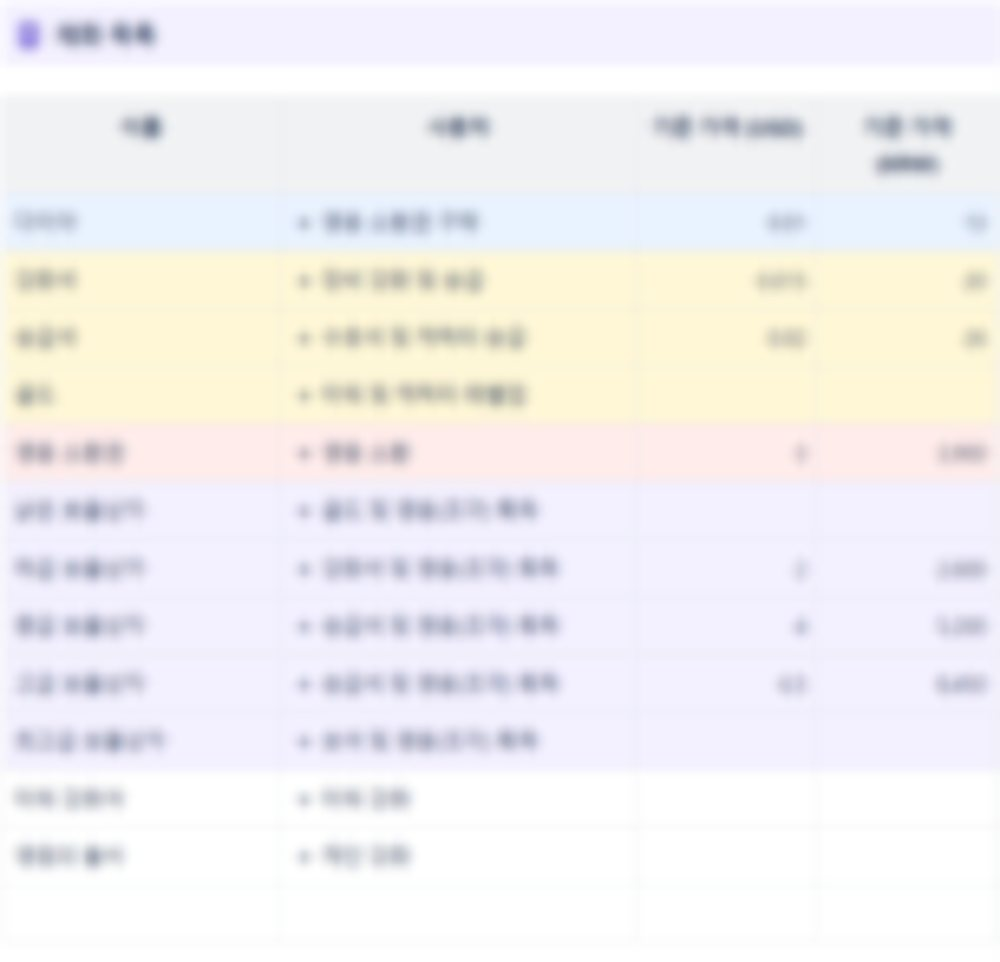
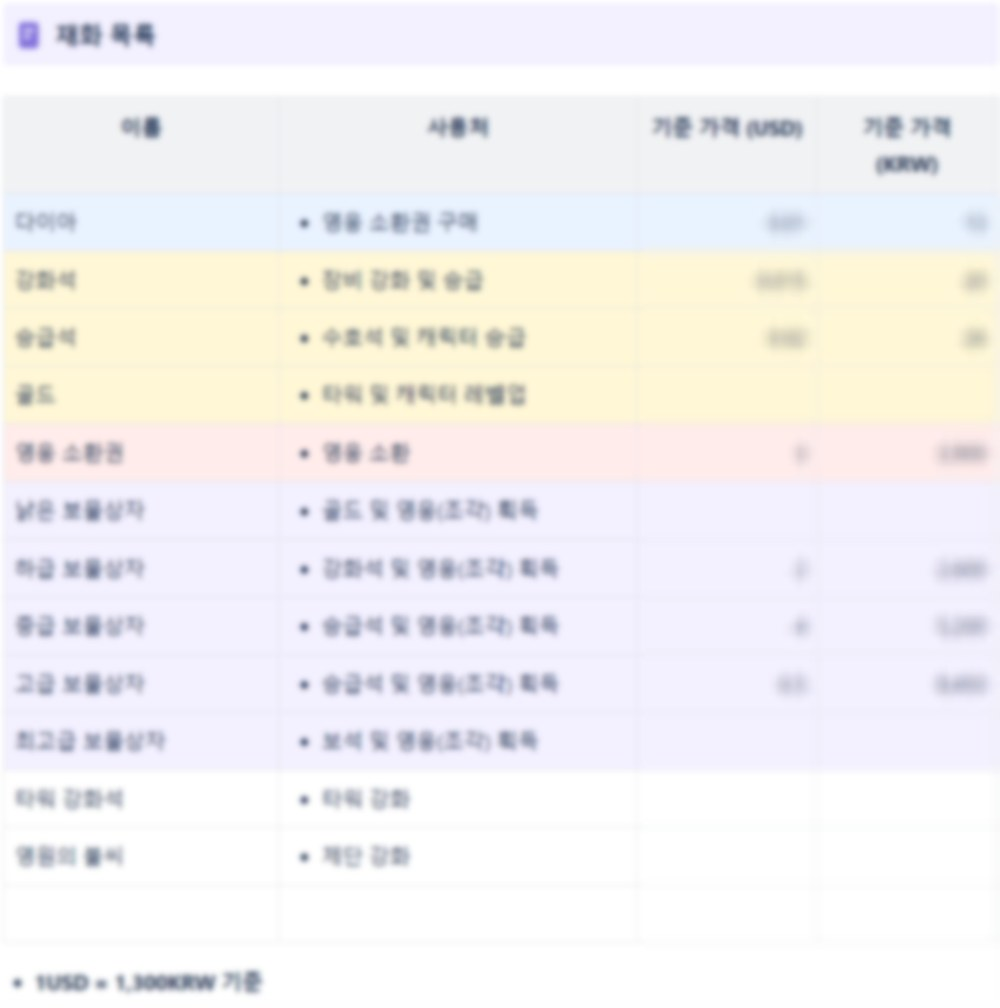
Blur only price columns in currency tables

diff --git a/projects.html b/projects.html
@@ -137,14 +137,14 @@
             콘텐츠에서 재화가 나오고 육성으로 흘러가는 전체 순환을 하나의 구조도로 정리한 뒤,
             모든 재화에 기준 가치를 부여해 시스템 간 보상량을 같은 잣대로 비교할 수 있게 했습니다.
           </p>
-          <div class="shots shots--wide">
+          <div class="shots shots--stack">
             <figure class="shot">
               <img src="assets/img/work/tds-loop-diagram.jpg" alt="Tailed Demon Slayer:RISE 콘텐츠-재화-육성 코어루프 구조도" loading="lazy">
               <figcaption>코어루프 구조도 — 콘텐츠에서 육성까지의 재화 흐름</figcaption>
             </figure>
             <figure class="shot">
-              <img src="assets/img/work/tds-loop-detail.jpg" alt="재화별 기준 가치 정의표 (수치 블러 처리)" loading="lazy">
-              <figcaption>재화별 기준 가치 정의 — 전 재화에 동일 기준의 환산 가치 부여 <span class="blurred">수치 블러</span></figcaption>
+              <img src="assets/img/work/tds-loop-detail.jpg" alt="재화별 기준 가치 정의표 (가격 수치만 블러 처리)" loading="lazy">
+              <figcaption>재화별 기준 가치 정의 — 전 재화에 동일 기준의 환산 가치 부여 <span class="blurred">가격 수치만 블러</span></figcaption>
             </figure>
           </div>
         </div>
@@ -398,14 +398,14 @@
             상자 포인트를 중심으로 재화가 분기되어 캐릭터·수호탑·장비·건설 타워로 흘러가는 순환을 설계하고,
             각 재화에 기준 가격을 부여해 콘텐츠별 보상 설계의 기준선을 만들었습니다.
           </p>
-          <div class="shots shots--wide">
+          <div class="shots shots--stack">
             <figure class="shot">
               <img src="assets/img/work/bers-loop-diagram.jpg" alt="광전사 키우기 캐릭터 육성 재화 코어루프 구조도" loading="lazy">
               <figcaption>코어루프 구조도 — 콘텐츠에서 육성으로 이어지는 재화 흐름</figcaption>
             </figure>
             <figure class="shot">
-              <img src="assets/img/work/bers-loop-detail.jpg" alt="광전사 키우기 재화별 사용처와 기준 가치 정의표 (수치 블러 처리)" loading="lazy">
-              <figcaption>재화 정의 — 재화별 사용처와 기준 가치 <span class="blurred">수치 블러</span></figcaption>
+              <img src="assets/img/work/bers-loop-detail.jpg" alt="광전사 키우기 재화별 사용처와 기준 가치 정의표 (가격 수치만 블러 처리)" loading="lazy">
+              <figcaption>재화 정의 — 재화별 사용처와 기준 가치 <span class="blurred">가격 수치만 블러</span></figcaption>
             </figure>
           </div>
         </div>

diff --git a/assets/css/style.css b/assets/css/style.css
@@ -823,6 +823,8 @@ h1, h2, h3, h4 { margin: 0; line-height: 1.3; letter-spacing: -0.02em; }
 .shots--wide { grid-template-columns: repeat(auto-fit, minmax(340px, 1fr)); }
 .shots--tall { grid-template-columns: repeat(auto-fit, minmax(200px, 1fr)); }
 .shots--mini { grid-template-columns: repeat(auto-fit, minmax(240px, 1fr)); }
+/* 표 안의 글자를 읽어야 하는 자료는 한 줄에 하나씩 크게 */
+.shots--stack { grid-template-columns: 1fr; }
 
 /* 세로로 지나치게 긴 이미지는 높이를 제한해 한 화면에 읽히게 한다 */
 .shots--wide .shot img { max-height: 700px; object-fit: contain; }
